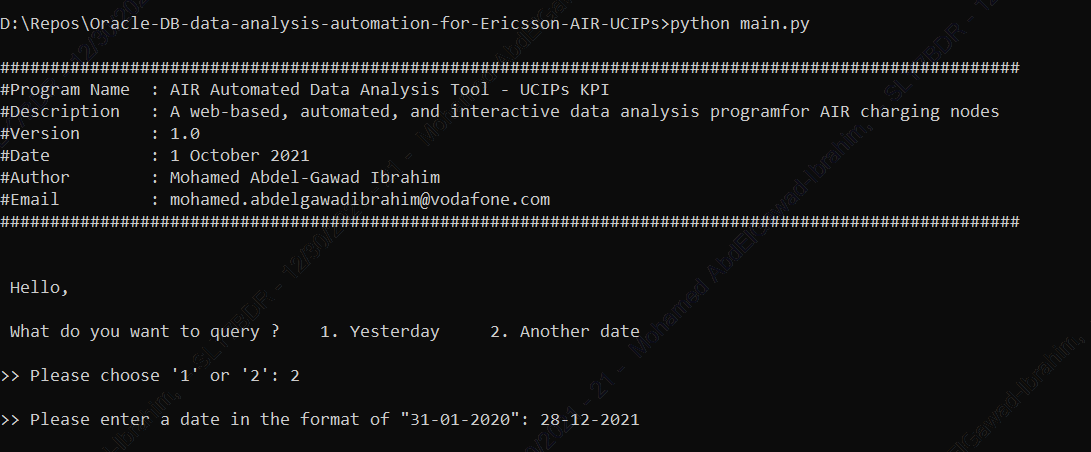
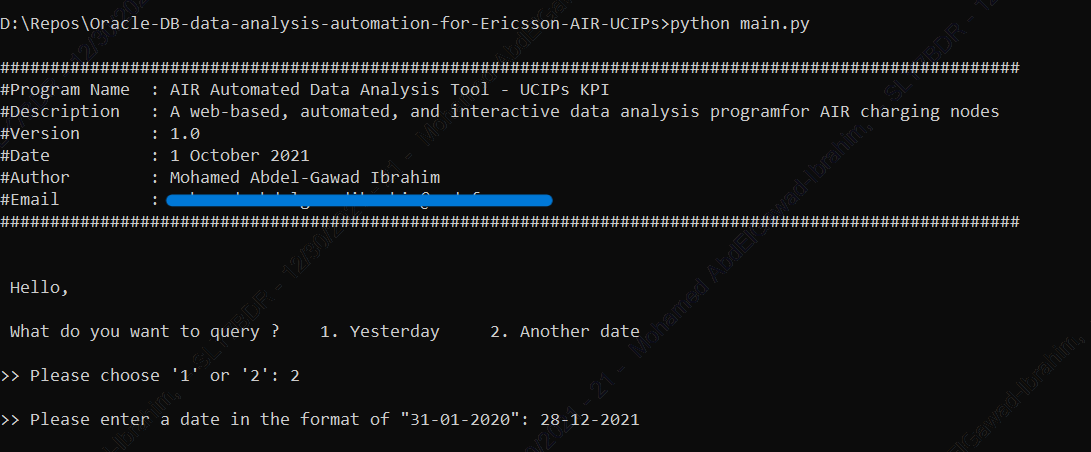
updated README

Changed region(s): [[0.1558, 0.4027, 0.5298, 0.4646]]

diff --git a/README.md b/README.md
@@ -20,6 +20,7 @@
       <ul>
         <li><a href="#business-case">Business Case</a></li>
         <li><a href="#technical-solution">Technical Solution</a></li>
+        <li><a href="#screenshots">Screenshots</a></li>
         <li><a href="#tech-stack">Tech Stack</a></li>
       </ul>
     </li>
@@ -64,6 +65,11 @@ Benefits:
 * Scalability: Handles large datasets daily, ensuring consistent performance regardless of data volume.
 
 <p align="right">(<a href="#readme-top">back to top</a>)</p>
+
+## Screenshots
+
+<img src="readme_files/1.PNG">
+<img src="readme_files/2.PNG">
 
 ### Tech Stack
 
